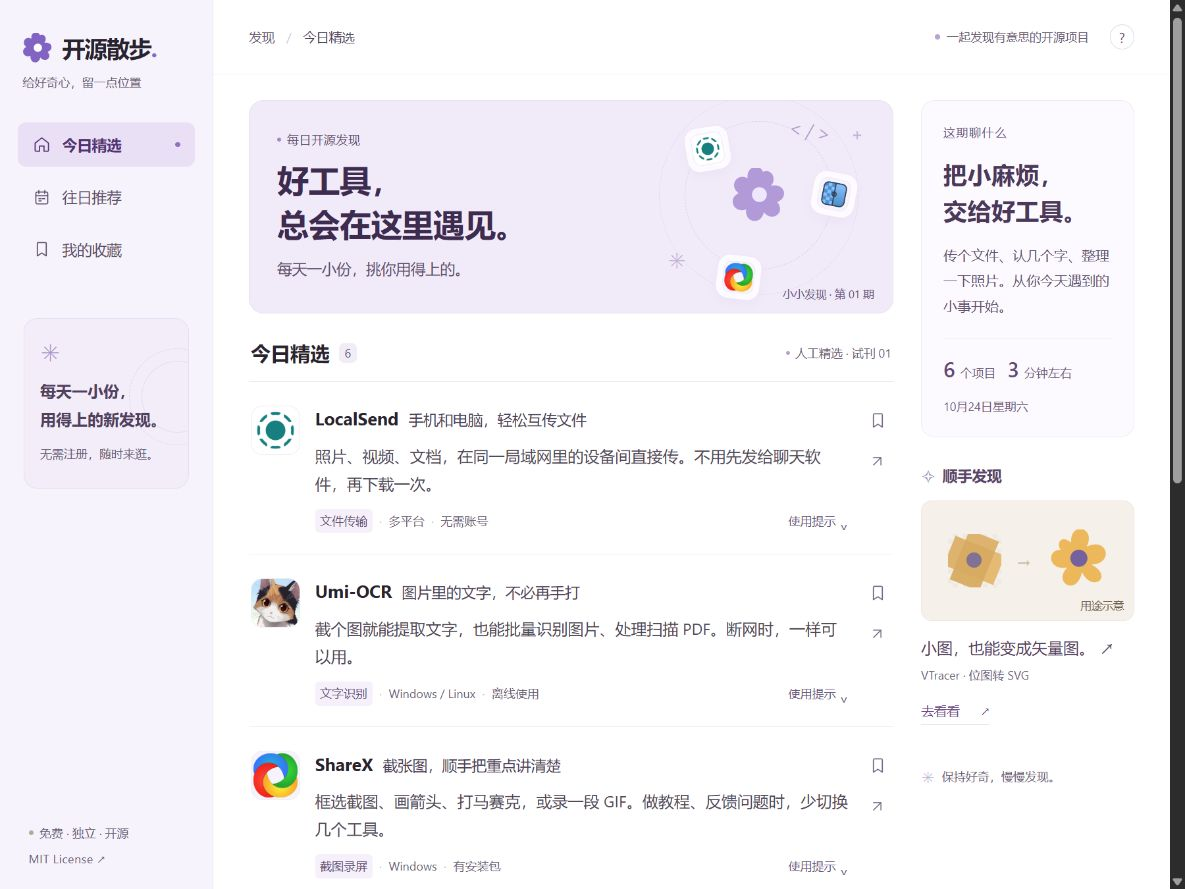
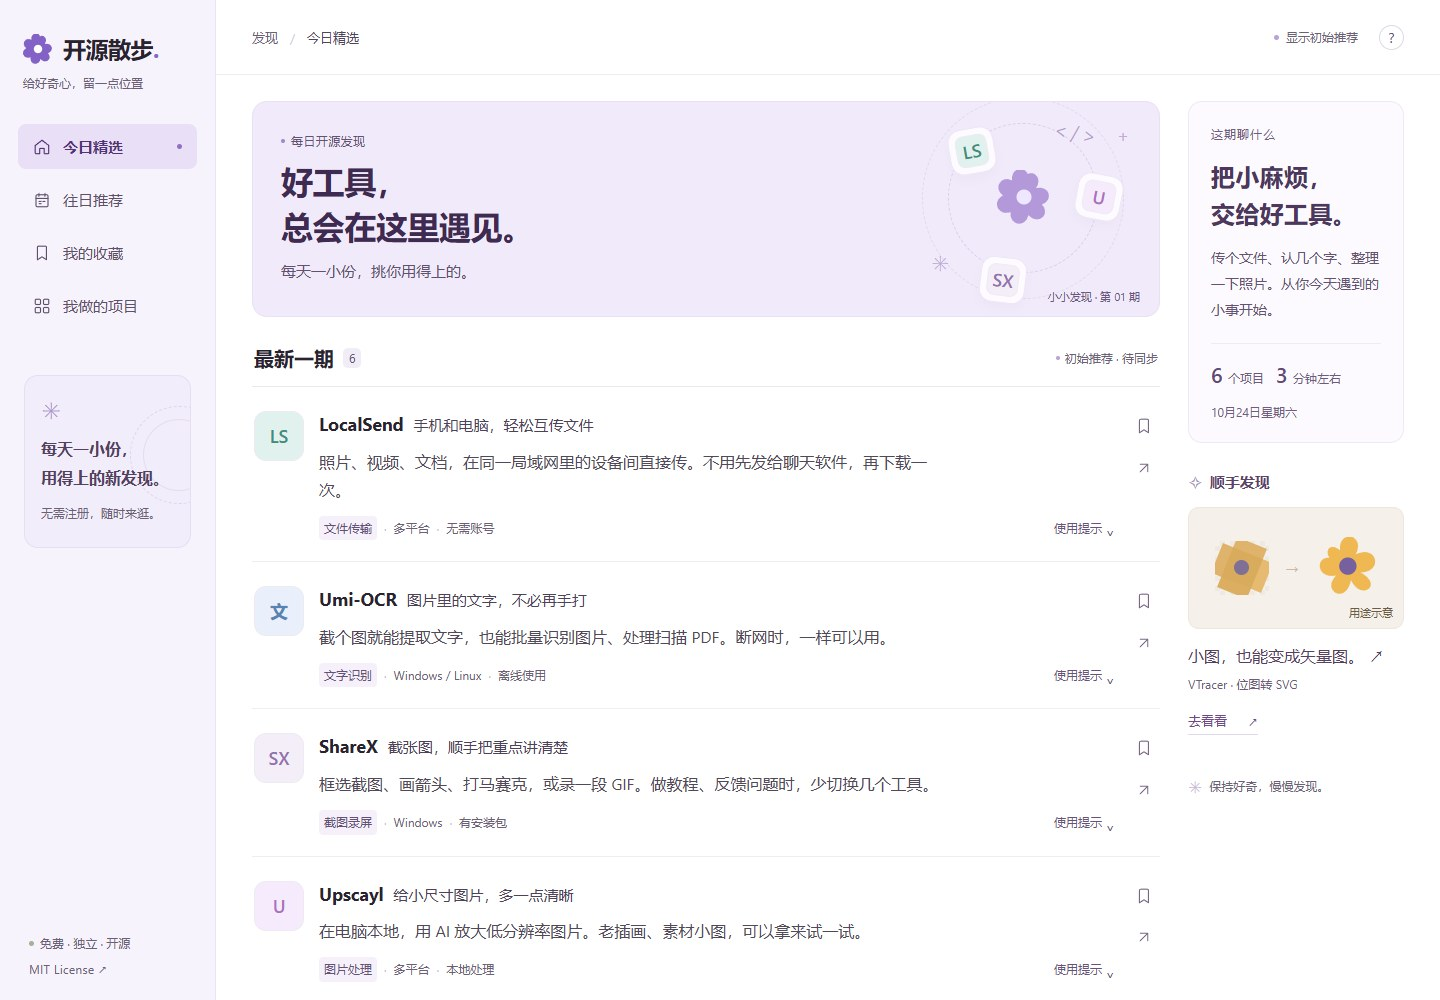
Sync author projects page and navigation

diff --git a/public/app.js b/public/app.js
@@ -13,6 +13,7 @@
   const bookmarkIcon = '<svg viewBox="0 0 24 24" aria-hidden="true"><path d="M6 4.5A1.5 1.5 0 0 1 7.5 3h9A1.5 1.5 0 0 1 18 4.5V21l-6-4-6 4Z" stroke-linejoin="round"/></svg>';
   const externalIcon = '<svg viewBox="0 0 24 24" aria-hidden="true"><path d="M7 17 17 7M7 7h10v10"/></svg>';
   const escapeHTML = value => String(value).replace(/[&<>"']/g, c => ({'&':'&amp;','<':'&lt;','>':'&gt;','"':'&quot;',"'":'&#39;'}[c]));
+  const myProjects = window.STROLL_MY_PROJECTS || [];
   let saved = new Set();
   let storageAvailable = true;
   let toastTimeout;
@@ -81,6 +82,10 @@
     root.innerHTML = `<header class="page-intro"><span class="page-eyebrow">把好奇心，留给下次</span><h1>我的收藏<span>.</span></h1><p>${saved.size?`收好了 ${saved.size} 个项目。需要的时候，再慢慢试。`:'感兴趣的项目，点一下书签就能收好。'}</p></header>${saved.size?`<section class="saved-feed" aria-label="已收藏项目">${[...saved].reverse().map(row).join('')}</section>${[...saved].some(id=>!projects[id])?'<p class="saved-note">部分收藏资料暂未加载，联网后会重新读取；收藏记录仍保留在本机。</p>':''}<p class="saved-note">${storageAvailable?'收藏只保存在当前浏览器，不会上传。清除站点数据会清除收藏。':'浏览器限制存储，收藏暂时只在本次页面打开期间保留。'}</p>`:`<section class="empty-state"><div class="empty-icon">${bookmarkIcon}</div><h2>口袋里，还是空空的。</h2><p>先去逛逛，遇到喜欢的就留下。</p><a class="primary-link" href="#today">发现今日精选 <span aria-hidden="true">↗</span></a></section>`}`;
   }
 
+  function renderMyProjects() {
+    root.innerHTML = `<div class="author-page"><header class="page-intro"><span class="page-eyebrow">从日常的小问题开始</span><h1>我做的项目<span>.</span></h1><p>自己做的工具，和我在关注的开源分支。</p></header><section class="author-project-list" aria-label="我的公开项目">${myProjects.map(p=>`<article class="author-project" data-author-project="${escapeHTML(p.id)}"><span class="author-project-mark author-mark-${escapeHTML(p.id)}" aria-hidden="true">${escapeHTML(p.mark)}</span><div class="author-project-copy"><div class="author-project-heading"><h2>${escapeHTML(p.name)}</h2><span class="author-project-kind">${escapeHTML(p.kind)}</span></div><div class="author-project-meta"><span>${escapeHTML(p.category)}</span><span>${escapeHTML(p.license)}</span></div><p class="author-project-description">${escapeHTML(p.description)}</p>${p.note?`<p class="author-project-note">${escapeHTML(p.note)}</p>`:''}${p.upstream?`<p class="author-project-note">原项目：<a href="${escapeHTML(p.upstream.url)}" target="_blank" rel="noopener noreferrer">${escapeHTML(p.upstream.name)} <span aria-hidden="true">↗</span></a></p>`:''}<div class="author-project-links">${p.links.map(link=>`<a href="${escapeHTML(link.url)}" target="_blank" rel="noopener noreferrer">${escapeHTML(link.label)} <span aria-hidden="true">↗</span></a>`).join('')}</div></div></article>`).join('')}</section><p class="author-page-footer"><a href="https://github.com/Adrian-0925?tab=repositories" target="_blank" rel="noopener noreferrer">到 GitHub 看看全部仓库 <span aria-hidden="true">↗</span></a></p></div>`;
+  }
+
   function updateCount() {
     const count = document.getElementById('saved-count');
     count.textContent=String(saved.size);
@@ -90,12 +95,12 @@
   function render({scroll=true}={}) {
     const hash=location.hash.slice(1);
     const edition=hash.startsWith('edition/')?editions.find(e=>e.id===hash.slice(8)):null;
-    const view=hash==='saved'?'saved':hash==='archive'||(hash.startsWith('edition/')&&!edition)?'archive':'today';
+    const view=hash==='projects'?'projects':hash==='saved'?'saved':hash==='archive'||(hash.startsWith('edition/')&&!edition)?'archive':'today';
     activeView=view;
     document.querySelectorAll('[data-view]').forEach(link=>{if(link.dataset.view===view)link.setAttribute('aria-current','page');else link.removeAttribute('aria-current');});
-    const title=view==='saved'?'我的收藏':view==='archive'?'往日推荐':'今日精选';
+    const title=view==='projects'?'我做的项目':view==='saved'?'我的收藏':view==='archive'?'往日推荐':'今日精选';
     document.getElementById('current-view-label').textContent=title;
-    if(view==='saved')renderSaved();else if(view==='archive')renderArchive();else renderToday(edition||editions[0]);
+    if(view==='projects')renderMyProjects();else if(view==='saved')renderSaved();else if(view==='archive')renderArchive();else renderToday(edition||editions[0]);
     document.title=`${title} · 开源散步`;
     updateCount();
     updateStatus();
@@ -126,7 +131,7 @@
   const dialog=document.getElementById('about-dialog');
   document.getElementById('about-button').addEventListener('click',()=>dialog.showModal());
   document.getElementById('close-about').addEventListener('click',()=>dialog.close());
-  dialog.addEventListener('click',event=>{if(event.target===dialog){const r=dialog.getBoundingClientRect();if(event.clientX<r.left||event.clientX>r.right||event.clientY<r.top||event.clientY>r.bottom)dialog.close();}});
+  dialog.addEventListener('click',event=>{if(event.target.closest('[data-about-projects]'))dialog.close();else if(event.target===dialog){const r=dialog.getBoundingClientRect();if(event.clientX<r.left||event.clientX>r.right||event.clientY<r.top||event.clientY>r.bottom)dialog.close();}});
   function updateStatus() {
     const el=document.getElementById('data-status');
     if(!el)return;

diff --git a/public/index.html b/public/index.html
@@ -10,6 +10,7 @@
   <link rel="stylesheet" href="./styles.css">
   <link rel="stylesheet" href="./readability.css">
   <script defer src="./content.js"></script>
+  <script defer src="./my-projects.js"></script>
   <script defer src="./app.js"></script>
 </head>
 <body>
@@ -21,6 +22,7 @@
       <a class="nav-link" href="#today" data-view="today"><svg viewBox="0 0 24 24" aria-hidden="true"><path d="m3 10 9-7 9 7v10a1 1 0 0 1-1 1h-5v-7H9v7H4a1 1 0 0 1-1-1Z"/></svg><span>今日精选</span><span class="nav-live"></span></a>
       <a class="nav-link" href="#archive" data-view="archive"><svg viewBox="0 0 24 24" aria-hidden="true"><rect x="4" y="5" width="16" height="16" rx="2"/><path d="M4 10h16M8 3v4m8-4v4M8 14h3m2 0h3m-8 3h3"/></svg><span>往日推荐</span></a>
       <a class="nav-link" href="#saved" data-view="saved"><svg viewBox="0 0 24 24" aria-hidden="true"><path d="M6 4a1 1 0 0 1 1-1h10a1 1 0 0 1 1 1v17l-6-4-6 4Z"/></svg><span>我的收藏</span><span id="saved-count" class="saved-count" hidden></span></a>
+      <a class="nav-link" href="#projects" data-view="projects"><svg viewBox="0 0 24 24" aria-hidden="true"><rect x="3" y="3" width="7" height="7" rx="1.5"/><rect x="14" y="3" width="7" height="7" rx="1.5"/><rect x="3" y="14" width="7" height="7" rx="1.5"/><rect x="14" y="14" width="7" height="7" rx="1.5"/></svg><span>我做的项目</span></a>
     </nav>
     <div class="sidebar-note"><span class="tiny-flower" aria-hidden="true">✳</span><strong>每天一小份，<br>用得上的新发现。</strong><p>无需注册，随时来逛。</p><span class="note-path" aria-hidden="true"></span></div>
     <div class="sidebar-bottom"><span><i></i> 免费 · 独立 · 开源</span><a href="./LICENSE" target="_blank" rel="noopener">MIT License ↗</a></div>
@@ -31,7 +33,16 @@
     <footer class="site-footer content-wrap"><span>慢慢逛，发现更多可能。</span><span>独立推荐站 · 与 GitHub 无隶属关系 · 项目遵循各自许可证</span></footer>
   </div>
   <div id="toast" class="toast" role="status" aria-live="polite"></div>
-  <dialog id="about-dialog" aria-labelledby="about-title"><div class="dialog-heading"><span>关于开源散步</span><button id="close-about" aria-label="关闭关于窗口">×</button></div><h2 id="about-title">好工具，值得被发现。</h2><p>我们用简短的中文，介绍开源项目的用途和使用门槛。感兴趣了，就去原仓库继续了解。</p><p>项目资料来自 GitHub 官方接口，后台每小时同步；每天按 America/Denver 日期自动筛选 6 个未推荐过的项目。第一期保留人工编写的中文介绍，新增项目简介自动翻译为中文，仓库原文保留在使用提示内。接口限流时保留上次成功的数据，顶部可查看同步时间。自动筛选不代表本站已安装测试每个项目。</p><p>项目头像取自 GitHub 仓库作者或组织，用于标识来源；右侧的图片示意由本站绘制，并非软件截图。</p><p>收藏只保存在当前浏览器，不会上传。清除站点数据会同时清除收藏。问题和建议可在 GitHub 仓库的 Issues 中反馈。</p><a class="dialog-license" href="https://github.com/Adrian-0925/open-source-stroll" target="_blank" rel="noopener">GitHub 源码 ↗</a><a class="dialog-license" href="./LICENSE" target="_blank" rel="noopener">查看本站 MIT 许可证 ↗</a></dialog>
+  <dialog id="about-dialog" aria-labelledby="about-title">
+    <div class="dialog-heading"><span>关于开源散步</span><button id="close-about" aria-label="关闭关于窗口">×</button></div>
+    <h2 id="about-title">好工具，值得被发现。</h2>
+    <p>我们用简短的中文，介绍开源项目的用途和使用门槛。感兴趣了，就去原仓库继续了解。</p>
+    <a class="about-projects-link" href="#projects" data-about-projects>看看我做的项目 <span aria-hidden="true">→</span></a>
+    <p>项目资料来自 GitHub 官方接口，后台每小时同步；每天按 America/Denver 日期自动筛选 6 个未推荐过的项目。第一期保留人工编写的中文介绍，新增项目简介自动翻译为中文，仓库原文保留在使用提示内。接口限流时保留上次成功的数据，顶部可查看同步时间。自动筛选不代表本站已安装测试每个项目。</p>
+    <p>项目头像取自 GitHub 仓库作者或组织，用于标识来源；右侧的图片示意由本站绘制，并非软件截图。</p>
+    <p>收藏只保存在当前浏览器，不会上传。清除站点数据会同时清除收藏。问题和建议可在 GitHub 仓库的 Issues 中反馈。</p>
+    <a class="dialog-license" href="./LICENSE" target="_blank" rel="noopener">查看本站 MIT 许可证 ↗</a>
+  </dialog>
   <noscript><p class="noscript">请开启 JavaScript，以浏览推荐项目和使用本机收藏功能。</p></noscript>
 </body>
 </html>

diff --git a/public/readability.css b/public/readability.css
@@ -98,6 +98,28 @@ dialog h2 { font-size: 25px; color: #513360; }
 dialog p { font-size: 15px; line-height: 1.85; color: #5e496b; }
 .dialog-license { font-size: 14px; color: #6d4588; }
 
+#about-dialog { max-height: calc(100dvh - 32px); overflow-y: auto; }
+.about-projects-link { display: inline-flex; align-items: center; gap: 12px; min-height: 44px; margin: 6px 0 12px; font-size: 15px; color: var(--purple); }
+.about-projects-link:hover { text-decoration: underline; text-underline-offset: 4px; }
+.author-page { max-width: 880px; }
+.author-project-list { border-top: 1px solid var(--line); }
+.author-project { display: grid; grid-template-columns: 50px minmax(0, 1fr); gap: 20px; padding: 28px 0 22px; border-bottom: 1px solid var(--line); }
+.author-project-mark { display: grid; place-items: center; width: 50px; height: 50px; margin-top: 2px; border-radius: 12px; background: var(--side); color: var(--purple); font-size: 23px; font-weight: 600; }
+.author-mark-phonepulse { background: #edf0fb; color: #596b9b; }
+.author-mark-tokentracker { background: #edf4ef; color: #547862; }
+.author-project-heading { display: flex; align-items: center; flex-wrap: wrap; gap: 8px 12px; }
+.author-project-heading h2 { margin: 0; font-size: 22px; line-height: 1.5; font-weight: 600; color: var(--ink); }
+.author-project-kind { padding: 2px 7px; border-radius: 4px; background: var(--side); color: var(--text-secondary); font-size: 12px; line-height: 1.6; }
+.author-project-meta { display: flex; gap: 10px; margin: 7px 0 12px; font-size: 12px; line-height: 1.7; color: var(--text-secondary); }
+.author-project-meta > span + span::before { content: '·'; margin-right: 10px; }
+.author-project-description { margin: 0; font-size: 16px; line-height: 1.85; color: var(--text-body); }
+.author-project-note { margin: 9px 0 0; font-size: 13px; line-height: 1.8; color: var(--text-secondary); overflow-wrap: anywhere; }
+.author-project-note a { color: var(--purple); }
+.author-project-links { display: flex; flex-wrap: wrap; gap: 4px 22px; margin-top: 10px; }
+.author-project-links a, .author-page-footer a { display: inline-flex; align-items: center; gap: 5px; min-height: 44px; font-size: 14px; line-height: 1.7; color: var(--purple); }
+.author-project-links a:hover, .author-project-note a:hover, .author-page-footer a:hover { color: var(--purple-dark); text-decoration: underline; text-underline-offset: 4px; }
+.author-page-footer { margin: 22px 0 36px; }
+
 @media (max-width: 1150px) {
   .rail-note { padding-left: 17px; padding-right: 17px; }
   .rail-note h2 { font-size: 23px; }
@@ -121,9 +143,10 @@ dialog p { font-size: 15px; line-height: 1.85; color: #5e496b; }
 @media (max-width: 580px) {
   .brand { font-size: 23px; }
   .brand-description { margin: 0; font-size: 11px; top: 32px; }
-  .navigation { gap: 18px; }
-  .nav-link { font-size: 14px; gap: 6px; min-height: 40px; }
-  .saved-count { font-size: 11px; }
+  .navigation { display: grid; grid-template-columns: repeat(4, minmax(0, 1fr)); gap: 0; }
+  .nav-link { min-width: 0; flex-direction: column; justify-content: center; font-size: 13px; gap: 6px; min-height: 62px; padding: 8px 0 12px; line-height: 1.4; }
+  .nav-link > svg { width: 16px; height: 16px; }
+  .saved-count { position: absolute; top: 2px; right: calc(50% - 28px); font-size: 10px; padding: 0 4px; }
   .breadcrumb { font-size: 12px; }
   .daily-banner { min-height: 194px; }
   .daily-banner h1 { font-size: 28px; letter-spacing: -.7px; }
@@ -146,11 +169,14 @@ dialog p { font-size: 15px; line-height: 1.85; color: #5e496b; }
   .empty-state h2 { font-size: 22px; }
   .primary-link { font-size: 14px; }
   dialog h2 { font-size: 23px; }
+  .author-project { grid-template-columns: 40px minmax(0, 1fr); gap: 13px; padding: 24px 0 19px; }
+  .author-project-mark { width: 40px; height: 40px; border-radius: 10px; font-size: 20px; }
+  .author-project-heading h2 { font-size: 20px; }
 }
 
 @media (max-width: 360px) {
   .brand-description { display: none; }
-  .navigation { gap: 14px; }
+  .navigation { gap: 0; }
   .daily-banner h1 { font-size: 26px; }
   .feed-curation { font-size: 10px; }
 }

diff --git a/public/my-projects.js b/public/my-projects.js
@@ -1,0 +1,26 @@
+// Public repositories checked against GitHub on 2026-10-25. Kept separate from the daily feed.
+window.STROLL_MY_PROJECTS = [
+  {
+    id: 'phonepulse', name: 'PhonePulse', mark: 'P', kind: '个人项目',
+    category: 'iPhone 工具', license: 'GPL-3.0',
+    description: '查看 iPhone 的实时网速、充电功率估算和手机状态，也能用画中画悬浮显示网速。',
+    note: '适用于 iOS 17 及以上，安装方式见仓库说明。',
+    links: [{ label: '查看项目', url: 'https://github.com/Adrian-0925/phonepulse' }]
+  },
+  {
+    id: 'stroll', name: '开源散步', mark: '散', kind: '个人项目',
+    category: '网站', license: 'MIT',
+    description: '每天一小份，用简短中文发现用得上的开源好工具。支持往日推荐和本机收藏。',
+    links: [
+      { label: '在线体验', url: 'https://open-source-stroll.tealbuddy129.chatgpt.site' },
+      { label: 'GitHub 源码', url: 'https://github.com/Adrian-0925/open-source-stroll' }
+    ]
+  },
+  {
+    id: 'tokentracker', name: 'TokenTracker', mark: 'T', kind: 'Fork 分支',
+    category: 'AI 编程用量', license: 'MIT',
+    description: '在本地查看 AI 编程工具的 Token 用量、费用和活动趋势。这里是我保存的个人 Fork。',
+    upstream: { name: 'xiufengsun/TokenTracker', url: 'https://github.com/xiufengsun/TokenTracker' },
+    links: [{ label: '查看我的分支', url: 'https://github.com/Adrian-0925/TokenTracker' }]
+  }
+];

diff --git a/README.md b/README.md
@@ -2,13 +2,13 @@
 
 每天一小份，发现用得上的开源好工具。
 
-[在线体验](https://open-source-stroll.tealbuddy129.chatgpt.site) · [GitHub 源码](https://github.com/Adrian-0925/open-source-stroll)
+[在线体验](https://open-source-stroll.tealbuddy129.chatgpt.site) · [我做的项目](https://open-source-stroll.tealbuddy129.chatgpt.site/#projects) · [GitHub 源码](https://github.com/Adrian-0925/open-source-stroll)
 
 一个轻量的中文开源项目推荐站。用简短介绍说清项目能做什么，支持真实 GitHub 数据、自动中文简介、往日推荐和本机收藏。
 
 ![桌面端预览](docs/images/desktop.jpg)
 
-> 界面截图用于展示视觉风格；每日推荐和数据会随更新变化。[查看手机端](docs/images/mobile.jpg)
+> 界面截图用于展示视觉风格；每日推荐和数据会随更新变化。[查看手机端](docs/images/mobile.jpg) · [查看作品页](docs/images/projects.jpg)
 
 ## 有什么
 
@@ -16,6 +16,7 @@
 - **真实资料**：从 GitHub 官方接口获取 Star、许可证、语言和最近提交，缓存后统一展示。
 - **中文简介**：自动翻译新增项目简介，保留原文，翻译失败会重试。
 - **轻量收藏**：只保存在当前浏览器，不上传；清理站点数据后会丢失。
+- **作者作品**：主导航直接进入作品页，展示 PhonePulse、开源散步与 TokenTracker 个人 Fork，并保留原项目来源。
 - **舒服阅读**：浅色页面、清楚的文字层级，适配电脑和手机。
 
 保持简洁，让项目内容成为主角。先说用途和使用门槛，再展示技术信息，不堆砌榜单和复杂入口。

diff --git a/docs/development.md b/docs/development.md
@@ -8,6 +8,7 @@ npm test
 ```
 
 - `public/`：原生 HTML、CSS、JavaScript；前端无需框架或 CDN 脚本。
+- `public/my-projects.js`：作者公开项目与个人 Fork 的展示资料，独立于每日推荐数据；新增项目时核对用途、许可证与上游来源。
 - `worker/index.mjs`：缓存 API、每日筛选、去重和中文简介写入。
 - `public/update-cloud.mjs`：独立更新程序，只把公开项目简介发送给翻译服务。
 - `db/`、`drizzle/`：数据库结构与已生成的 SQL 迁移。
@@ -16,7 +17,7 @@ npm test
 
 构建将页面资源嵌入 `dist/server/index.js`；`dist/` 为生成目录，不提交。数据库改动应编辑 `db/schema.ts`，运行 `npm run db:generate`，审核并提交 `drizzle/` 里的迁移。
 
-页面保持连续项目流、浅色底色、清晰对比度和易读正文。优先让用途、使用门槛和项目来源容易理解；保持首页、往日推荐和本机收藏三个入口。
+页面保持连续项目流、浅色底色、清晰对比度和易读正文。优先让用途、使用门槛和项目来源容易理解；主导航包括今日精选、往日推荐、我的收藏和我做的项目。手机端使用四列导航，作品页可通过 `#projects` 直达；关于窗口也保留入口。
 
 更新按 America/Denver 日历生成新一期。每小时刷新最新一期与首期项目；旧期项目保留各自的 `checkedAt`，并非全量实时。错过的日期不会补造期刊。筛选依赖主题、许可证、近期活跃和 Star 等规则，不等于人工实测推荐。
 
